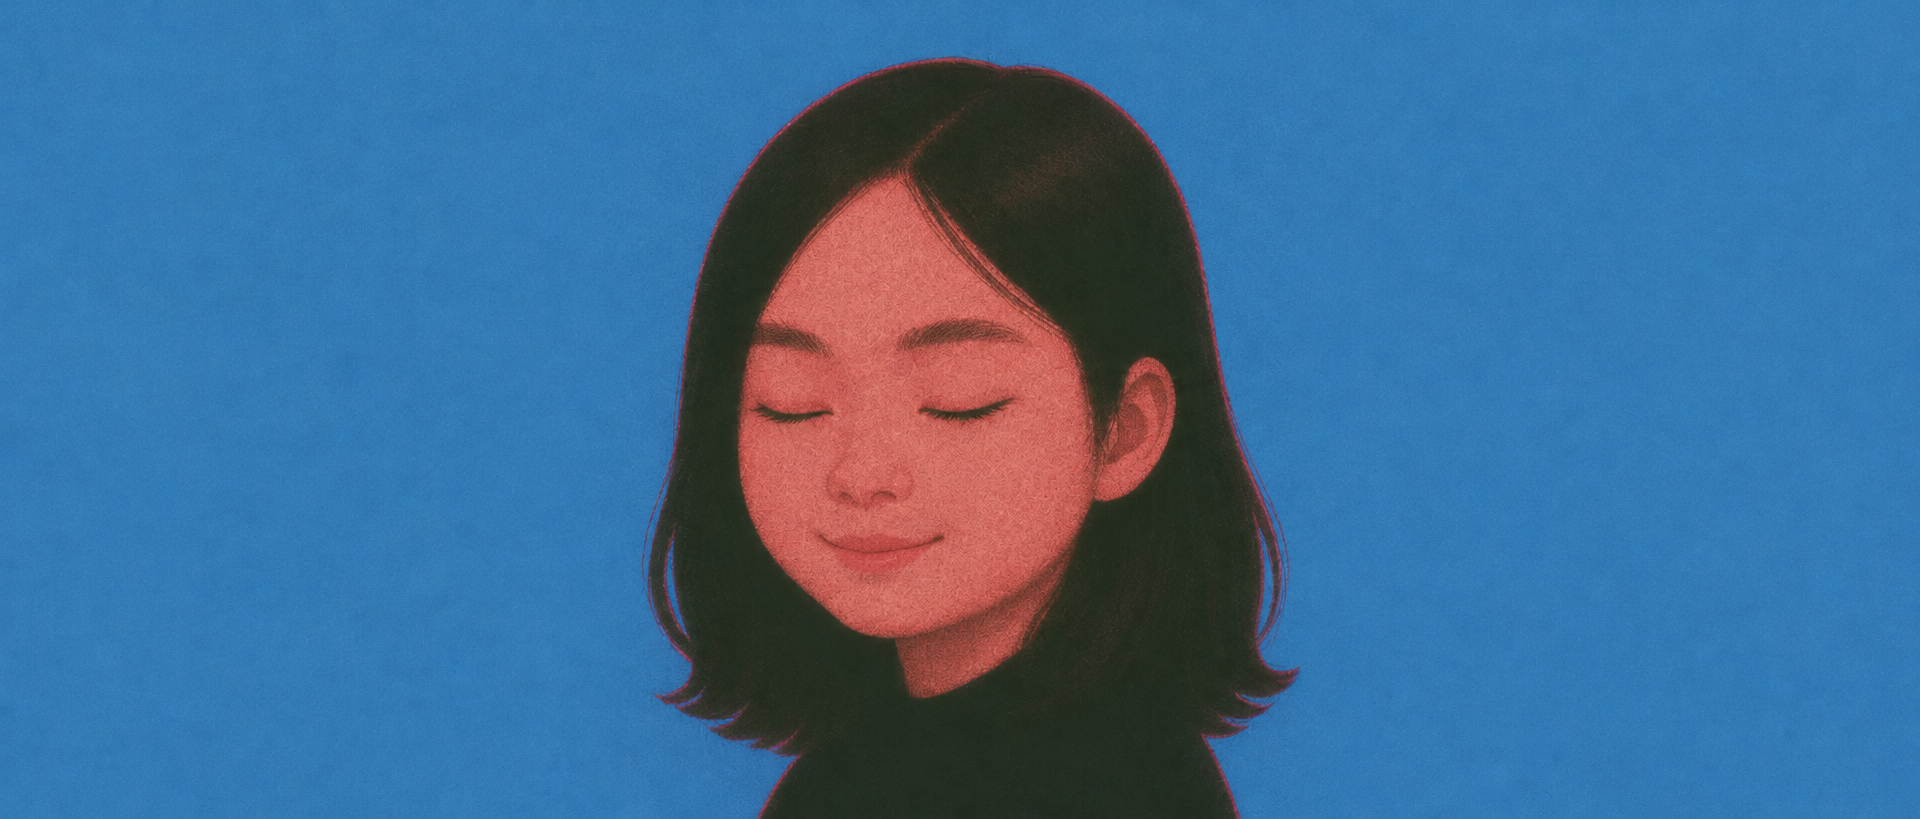
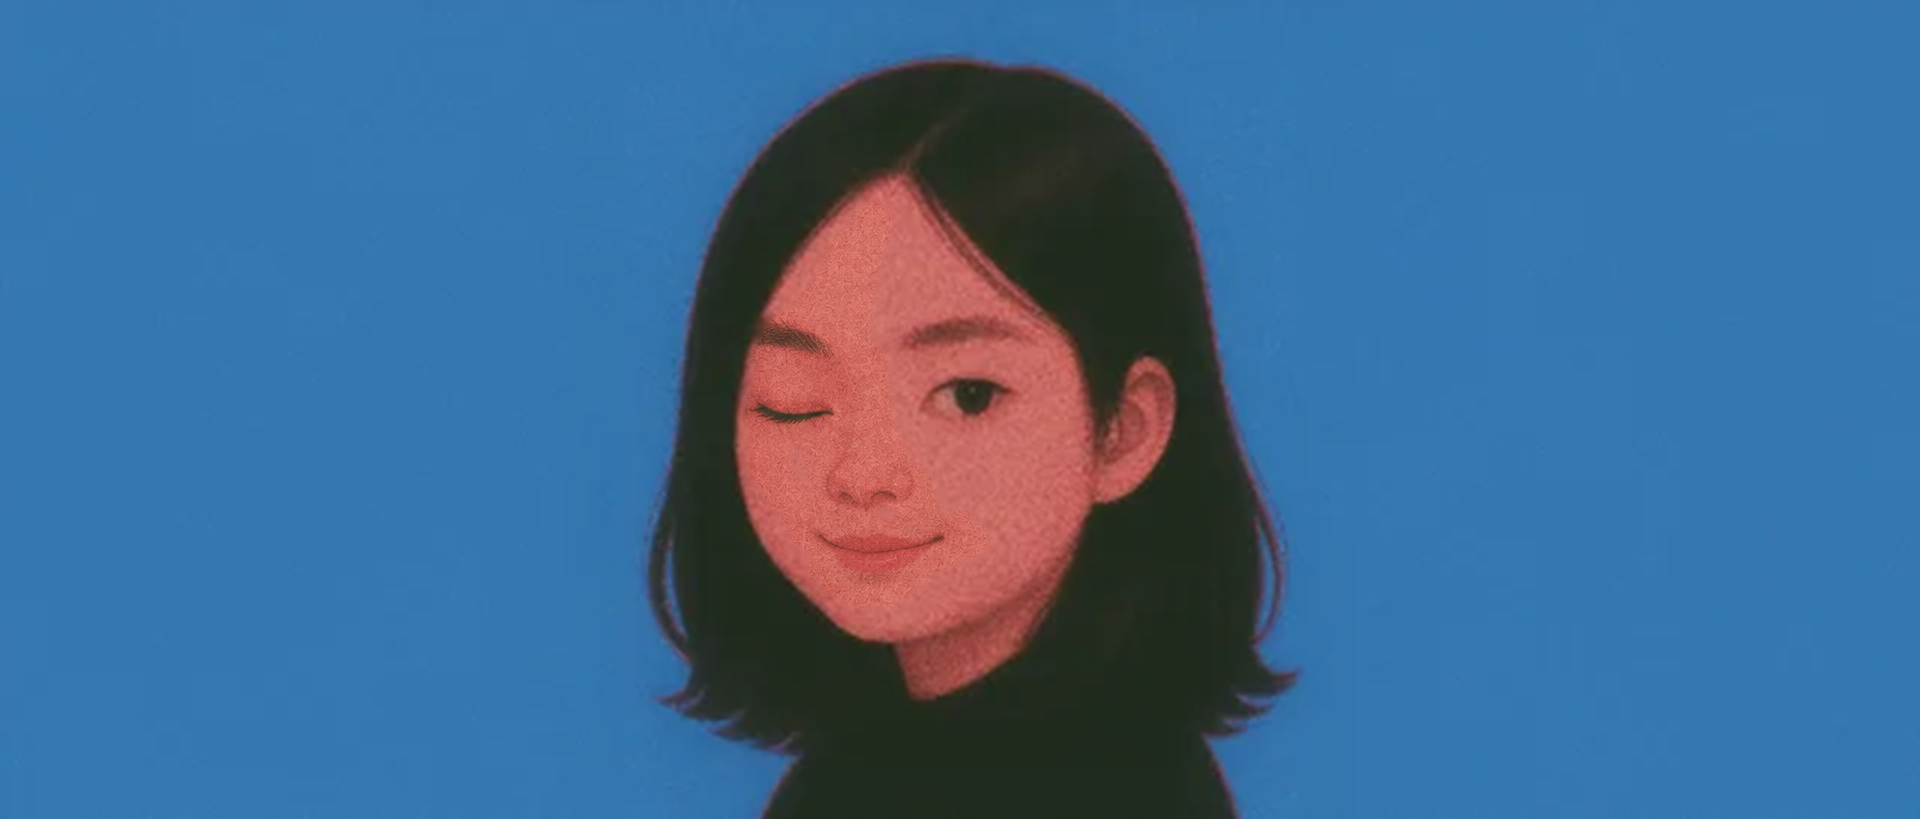
Nav profile button: profile.png, crossfade to profile_still2.png on hover
Claude-Session: https://claude.ai/code/session_01GjZZ7LRQebosA5uJgZKT9S

diff --git a/app/components/floating-nav.tsx b/app/components/floating-nav.tsx
@@ -98,10 +98,10 @@ export default function FloatingNav() {
             <img
               src="/profile.png"
               alt="Damiree Kim"
-              className="absolute inset-0 w-full h-full object-cover transition-opacity duration-500 ease-in-out group-hover/profile:opacity-0"
+              className="absolute inset-0 w-full h-full object-cover"
             />
             <img
-              src="/profile_hover.webp"
+              src="/profile_still2.png"
               alt=""
               aria-hidden
               className="absolute inset-0 w-full h-full object-cover transition-opacity duration-500 ease-in-out opacity-0 group-hover/profile:opacity-100"
